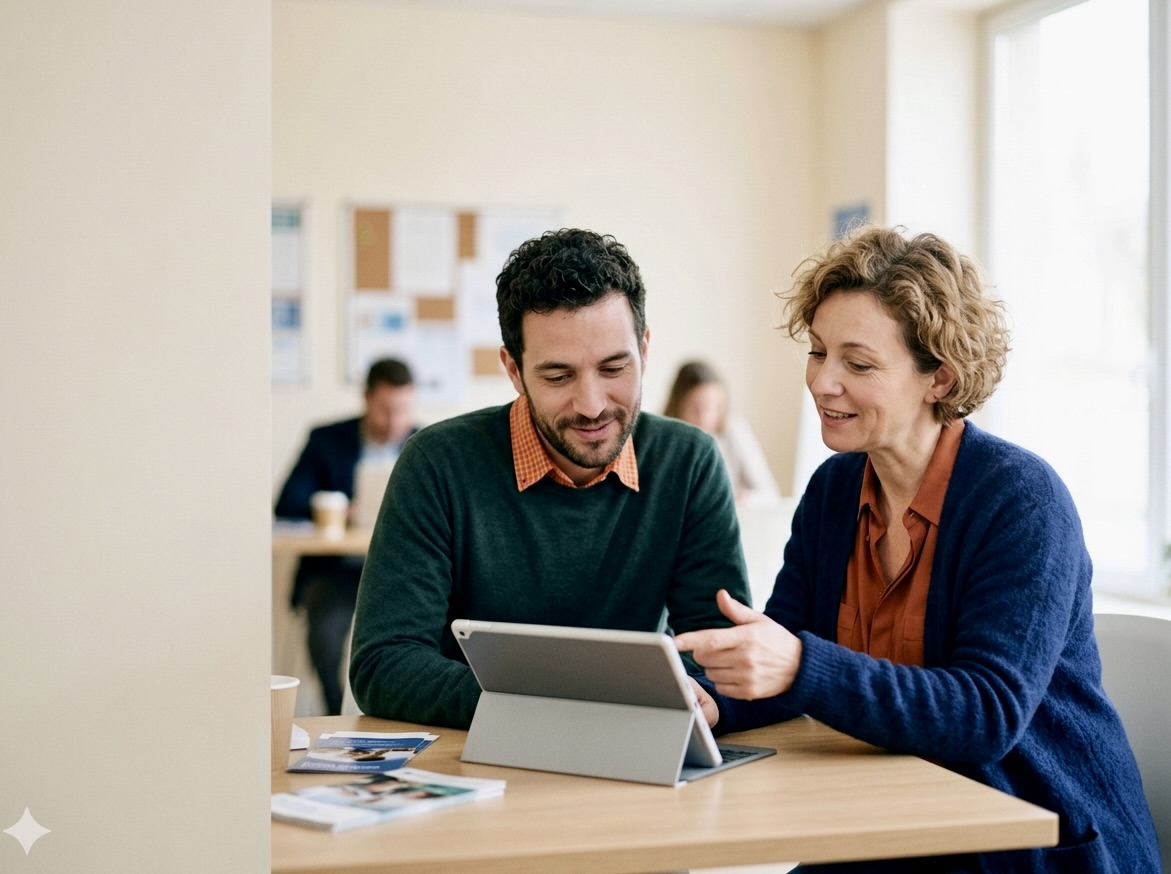
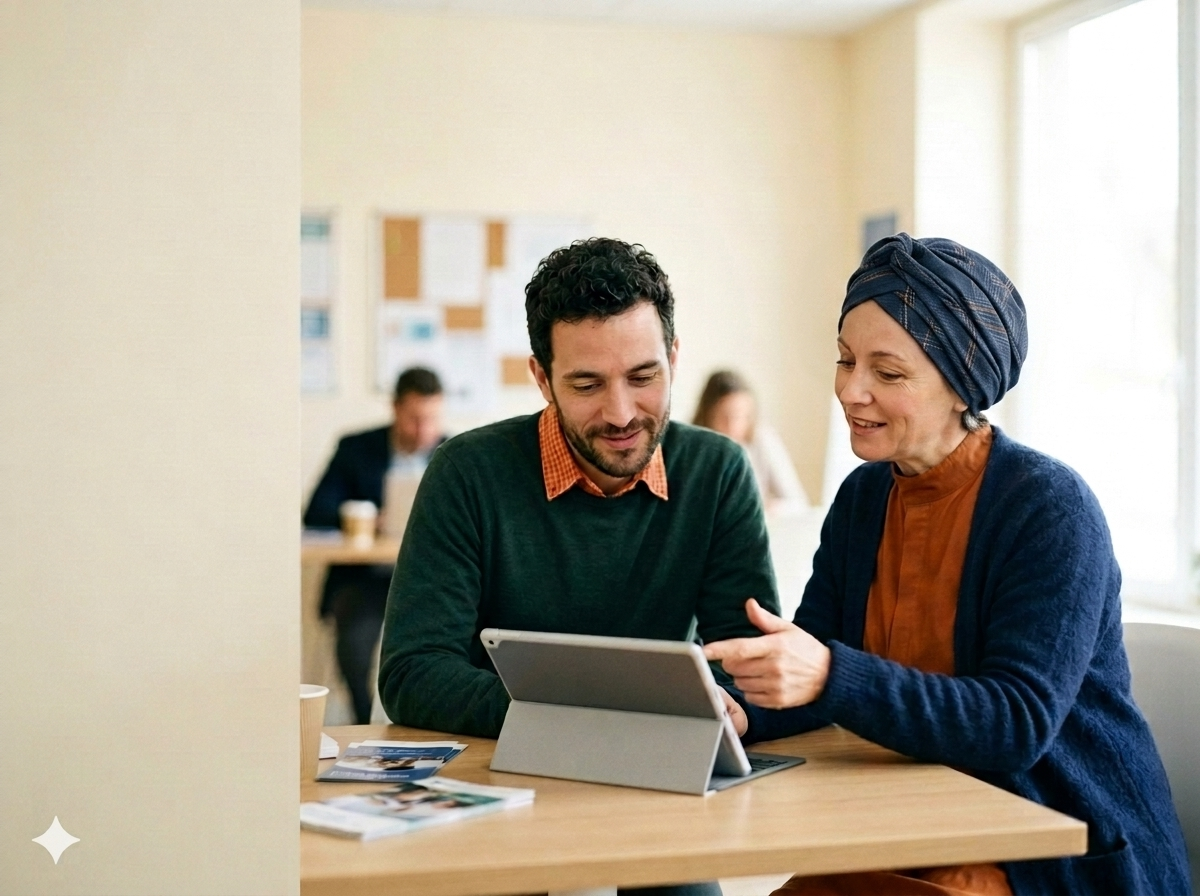
feat(images): ship updated brand photos + portrait persona-organisation
Replace hero, auth-side, persona, and logo artwork with the new versions.
persona-organisation is now 4:5 portrait (1122x1402) to match candidat.
Logo lockup resized to 800x525 stacked wordmark; site/admin headers bumped
to h-20 to fit the taller two-line lockup. Old copies kept locally in
public/img/_originals (gitignored); redundant working backups removed.

diff --git a/frontend/src/components/brand/Logo.tsx b/frontend/src/components/brand/Logo.tsx
@@ -6,14 +6,15 @@ import { cn } from "@/lib/utils"
    artwork itself stays untouched. The SVG ring/figure marks below are brand MOTIFS
    (decorative accents that echo the logo's "oo" rings), not the logo. */
 
-const LOGO_SRC = "/neoori-logo.png"      // exact brand lockup, 1527×486
+const LOGO_SRC = "/neoori-logo.png"      // exact brand lockup, 800×525 (trimmed tight)
 const MARK_SRC = "/img/neoori-mark.png"  // optional square figure glyph, 512×512
 
 type Tone = "navy" | "light"
 
 /**
- * neoori logo. Sizing is font-relative: the artwork renders at `1em` tall, so set
- * the size with a text-* class (e.g. `className="text-2xl"`) on the Logo or a parent.
+ * neoori logo. Sizing is font-relative: this is a 2-line stacked lockup (wordmark +
+ * tagline), so the artwork renders at `2.4em` tall — set the size with a text-* class
+ * (e.g. `className="text-2xl"`) on the Logo or a parent.
  * `tone="light"` / `onDark` seats it on a white plate for navy/photo backgrounds.
  */
 export function Logo({
@@ -34,8 +35,8 @@ export function Logo({
   const dark = onDark ?? tone === "light"
   const isMark = variant === "mark"
   const src = isMark ? MARK_SRC : LOGO_SRC
-  const w = isMark ? 512 : 1527
-  const h = isMark ? 512 : 486
+  const w = isMark ? 512 : 800
+  const h = isMark ? 512 : 525
 
   const img = (
     <Image
@@ -44,10 +45,10 @@ export function Logo({
       width={w}
       height={h}
       priority={priority}
-      sizes="260px"
+      sizes="180px"
       quality={92}
       className={cn("select-none", !dark && className)}
-      style={{ height: "1em", width: "auto" }}
+      style={{ height: isMark ? "1em" : "2.4em", width: "auto" }}
     />
   )
 
@@ -55,7 +56,7 @@ export function Logo({
     return (
       <span
         className={cn(
-          "inline-flex items-center rounded-[0.5em] bg-white px-[0.5em] py-[0.32em] shadow-sm ring-1 ring-black/5",
+          "inline-flex items-center rounded-[0.5em] bg-white px-[0.55em] py-[0.45em] shadow-sm ring-1 ring-black/5",
           className,
         )}
       >

diff --git a/frontend/src/app/admin/layout.tsx b/frontend/src/app/admin/layout.tsx
@@ -31,7 +31,7 @@ export default function AdminLayout({ children }: { children: React.ReactNode })
   return (
     <div className="min-h-screen bg-secondary">
       <header className="sticky top-0 z-50 w-full border-b border-border bg-background/85 backdrop-blur-md">
-        <div className="mx-auto flex h-16 max-w-7xl items-center gap-3 px-5 sm:gap-5 sm:px-8">
+        <div className="mx-auto flex h-20 max-w-7xl items-center gap-3 px-5 sm:gap-5 sm:px-8">
           <Link
             href="/admin"
             className="text-[22px] transition-opacity hover:opacity-80"

diff --git a/frontend/src/components/layout/AppBar.tsx b/frontend/src/components/layout/AppBar.tsx
@@ -23,7 +23,7 @@ export function AppBar() {
 
   return (
     <header className="sticky top-0 z-50 w-full border-b border-border bg-background/85 backdrop-blur-md no-print">
-      <div className="mx-auto flex h-16 max-w-6xl items-center justify-between px-5 sm:px-8">
+      <div className="mx-auto flex h-20 max-w-6xl items-center justify-between px-5 sm:px-8">
         <Link href="/espace" className="text-[24px] transition-opacity hover:opacity-80" aria-label="neoori — mon espace">
           <Logo />
         </Link>

diff --git a/frontend/src/components/layout/SiteNav.tsx b/frontend/src/components/layout/SiteNav.tsx
@@ -21,7 +21,7 @@ export function SiteNav() {
 
   return (
     <header className="sticky top-0 z-50 w-full border-b border-border/70 bg-background/80 backdrop-blur-md">
-      <div className="mx-auto flex h-16 max-w-6xl items-center justify-between px-5 sm:px-8">
+      <div className="mx-auto flex h-20 max-w-6xl items-center justify-between px-5 sm:px-8">
         <Link href="/" className="text-[26px] transition-opacity hover:opacity-80" aria-label="neoori — accueil">
           <Logo priority />
         </Link>
